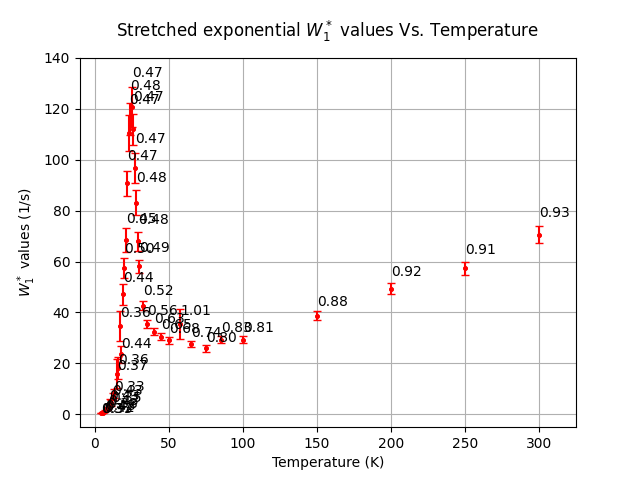
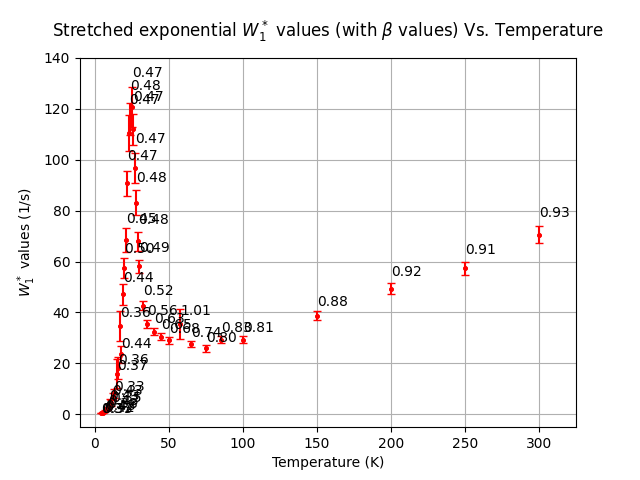
first draft of the test distribution jupyter notebook

Changed region(s): [[0.0938, 0.0312, 0.9375, 0.0938]]

diff --git a/Cuve_fitting.py b/Cuve_fitting.py
@@ -98,7 +98,8 @@ ax1.scatter(np.array(temperature_values), np.array(list_of_alpha_values), s=20, 
 # ax1.scatter(np.array(temperature_values), 1/np.array(list_of_alpha_values), s=20, color='red', marker=".")
 
 ax1.grid()
-ax1.set_title('Stretched exponential $W_1^*$ values Vs. Temperature', pad=15)
+# ax1.set_title('Stretched exponential $W_1^*$ values Vs. Temperature', pad=15)
+ax1.set_title('Stretched exponential $W_1^*$ values (with $\\beta$ values) Vs. Temperature', pad=15)
 # ax1.set_title('Stretched exponential $\\beta$ values Vs. Temperature', pad=15)
 # ax1.set_title('Stretched exponential $T_1^*$ values Vs. Temperature', pad=15)
 
